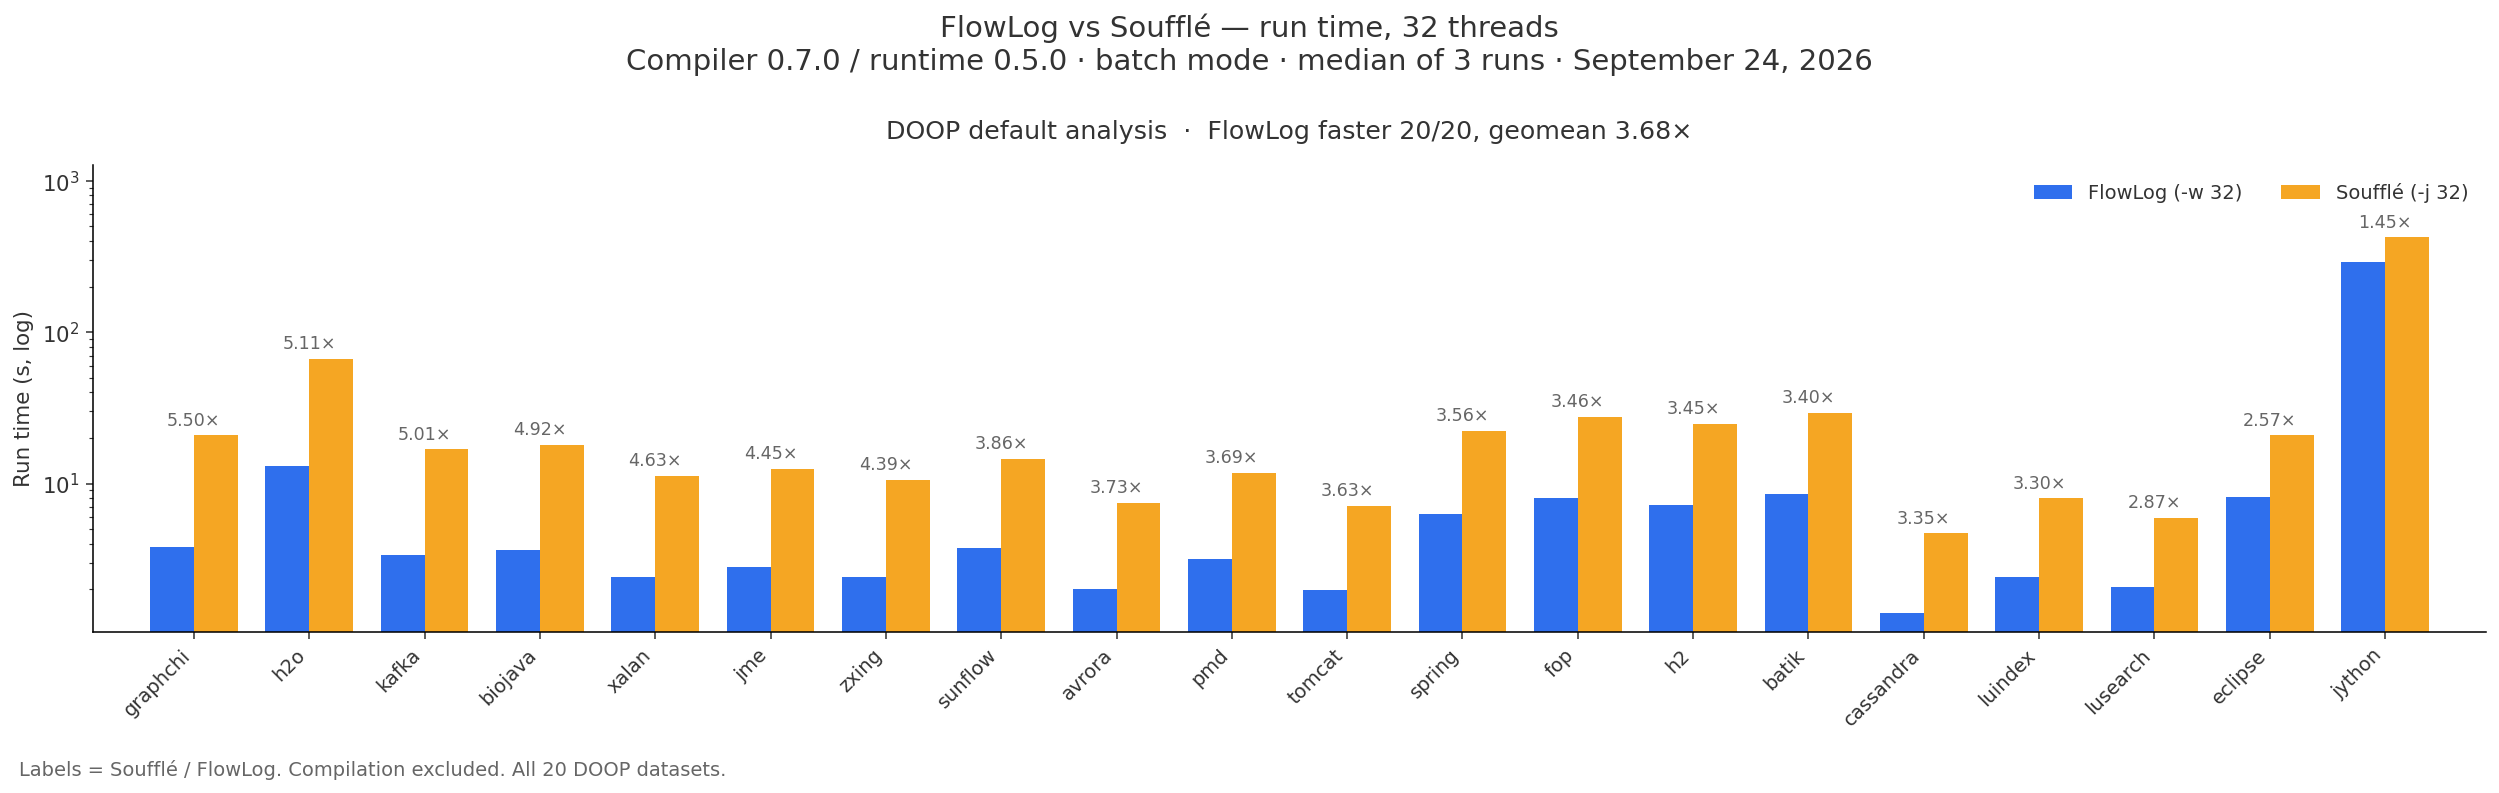
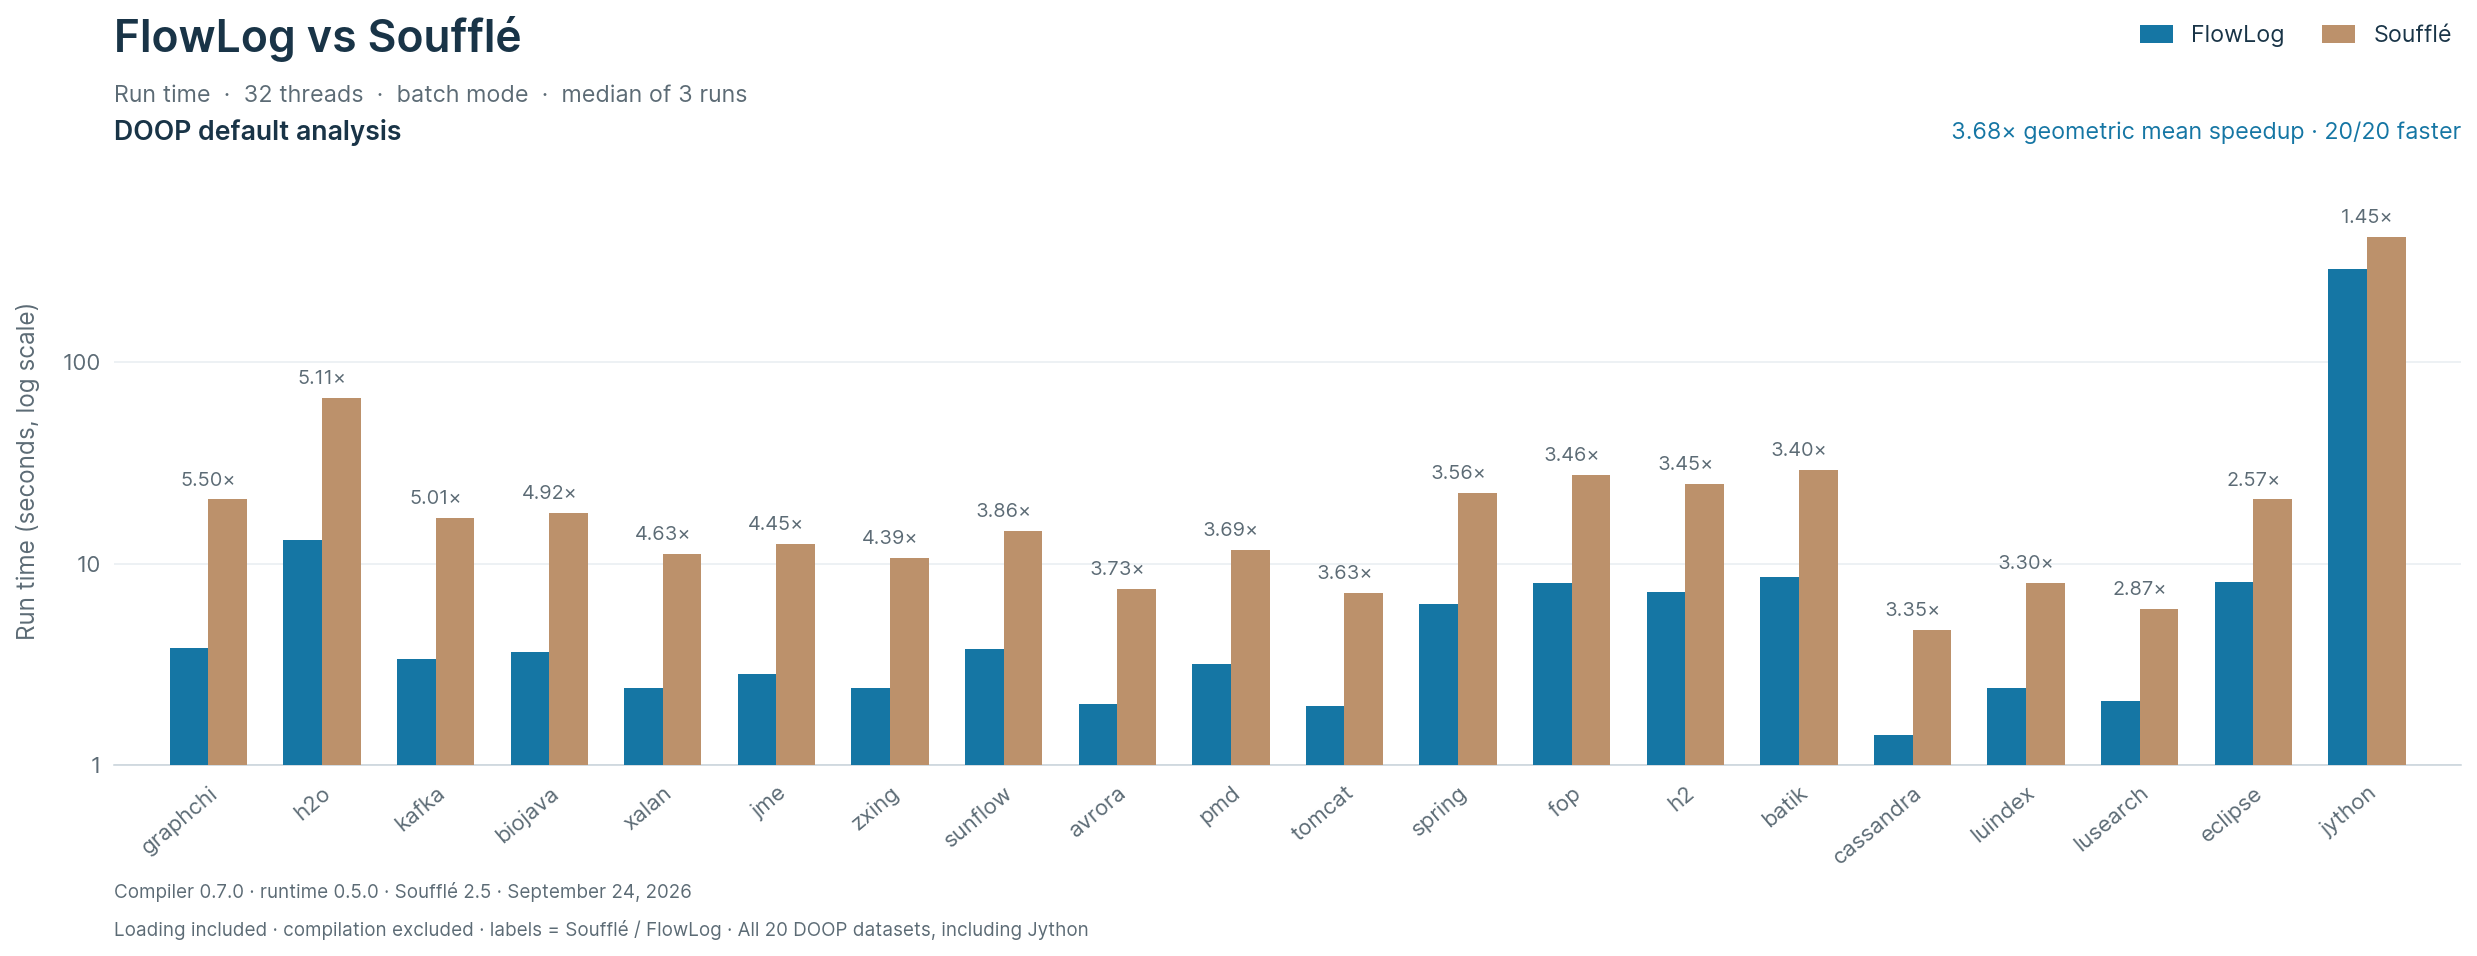
docs: align benchmark plots with FlowLog visual style
Use FlowLog's logo blue, muted copper, and Inter typography with simpler chart headers and lighter gridlines. Refresh immutable links to the matching benchmark render; measured results are unchanged.

Copilot-Session: f7d0db5c-c3c6-46b2-bc73-14ab6b4aff73

diff --git a/README.md b/README.md
@@ -181,9 +181,9 @@ the geometric-mean FlowLog/Soufflé peak-RSS ratio is **2.20×**.
 
 Benchmark suite: [`flowlog-bench`](https://github.com/flowlog-rs/flowlog-bench).
 
-[benchmark-table]: https://github.com/flowlog-rs/flowlog-bench/blob/129a72fd17ee39ed7c038f55bd03dc0570185170/docs/benchmarks/2026-09-24/README.md#complete-results-table
-[benchmark-csv]: https://github.com/flowlog-rs/flowlog-bench/blob/129a72fd17ee39ed7c038f55bd03dc0570185170/docs/benchmarks/2026-09-24/all_results.csv
-[benchmark-report]: https://github.com/flowlog-rs/flowlog-bench/blob/129a72fd17ee39ed7c038f55bd03dc0570185170/docs/benchmarks/2026-09-24/README.md
+[benchmark-table]: https://github.com/flowlog-rs/flowlog-bench/blob/334c3760c864df6893f675c828eb7d991b357e4b/docs/benchmarks/2026-09-24/README.md#complete-results-table
+[benchmark-csv]: https://github.com/flowlog-rs/flowlog-bench/blob/334c3760c864df6893f675c828eb7d991b357e4b/docs/benchmarks/2026-09-24/all_results.csv
+[benchmark-report]: https://github.com/flowlog-rs/flowlog-bench/blob/334c3760c864df6893f675c828eb7d991b357e4b/docs/benchmarks/2026-09-24/README.md
 
 ## Publication
 
